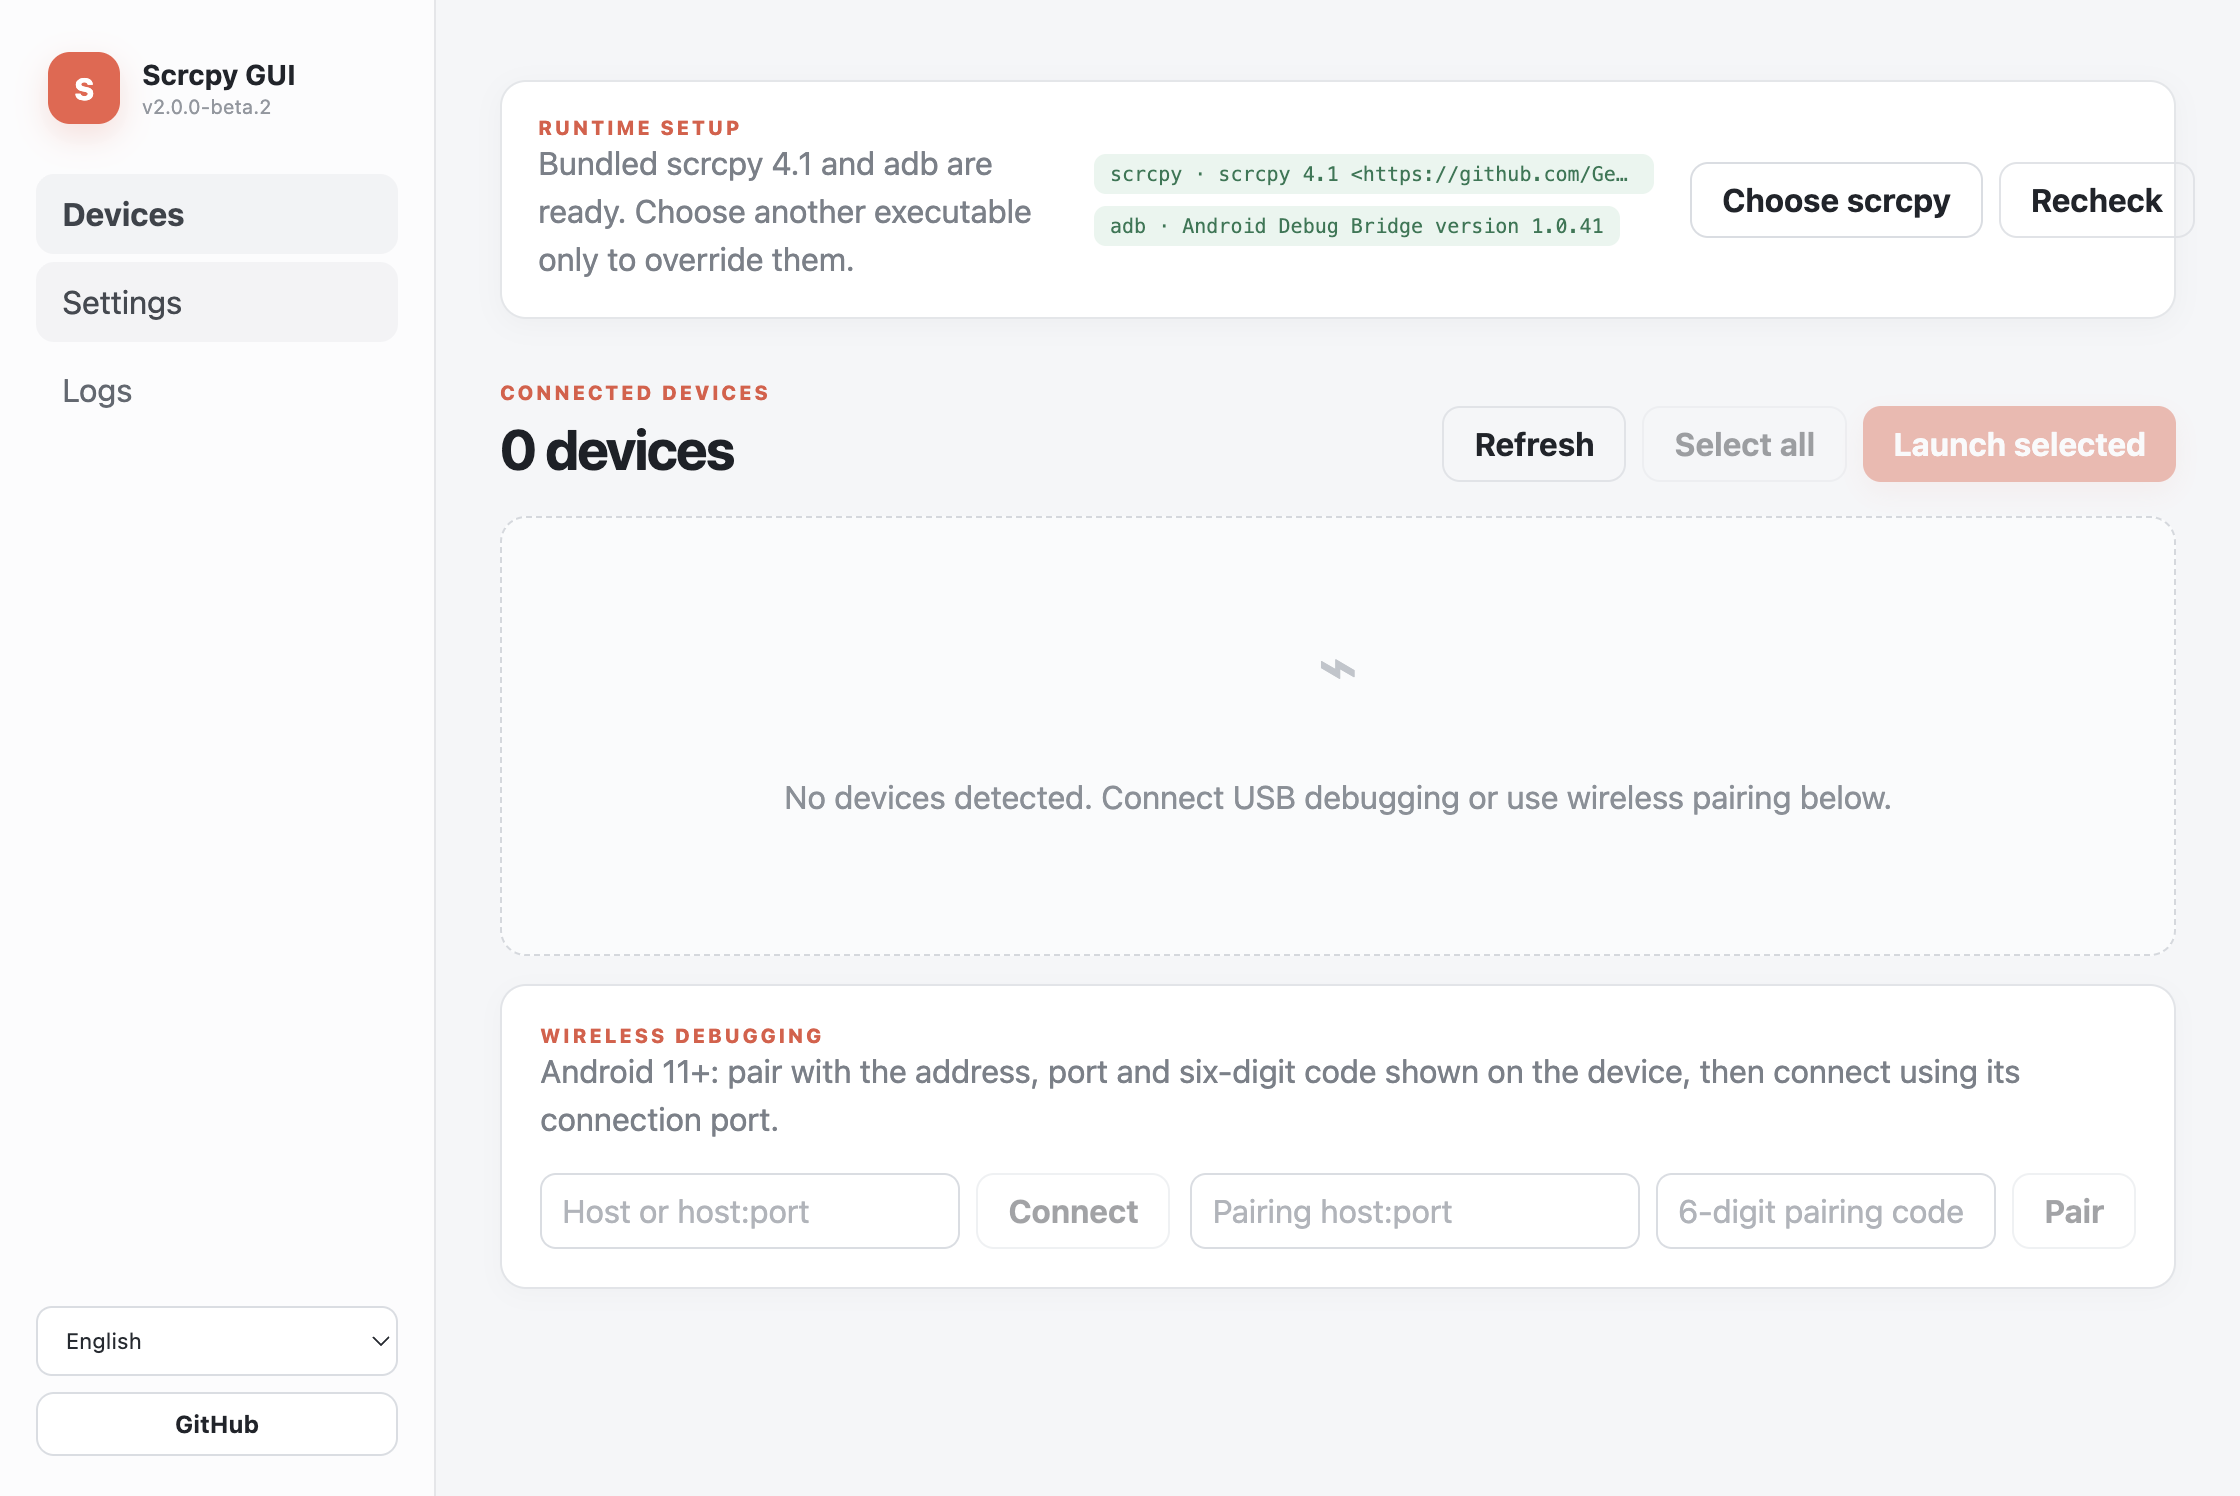
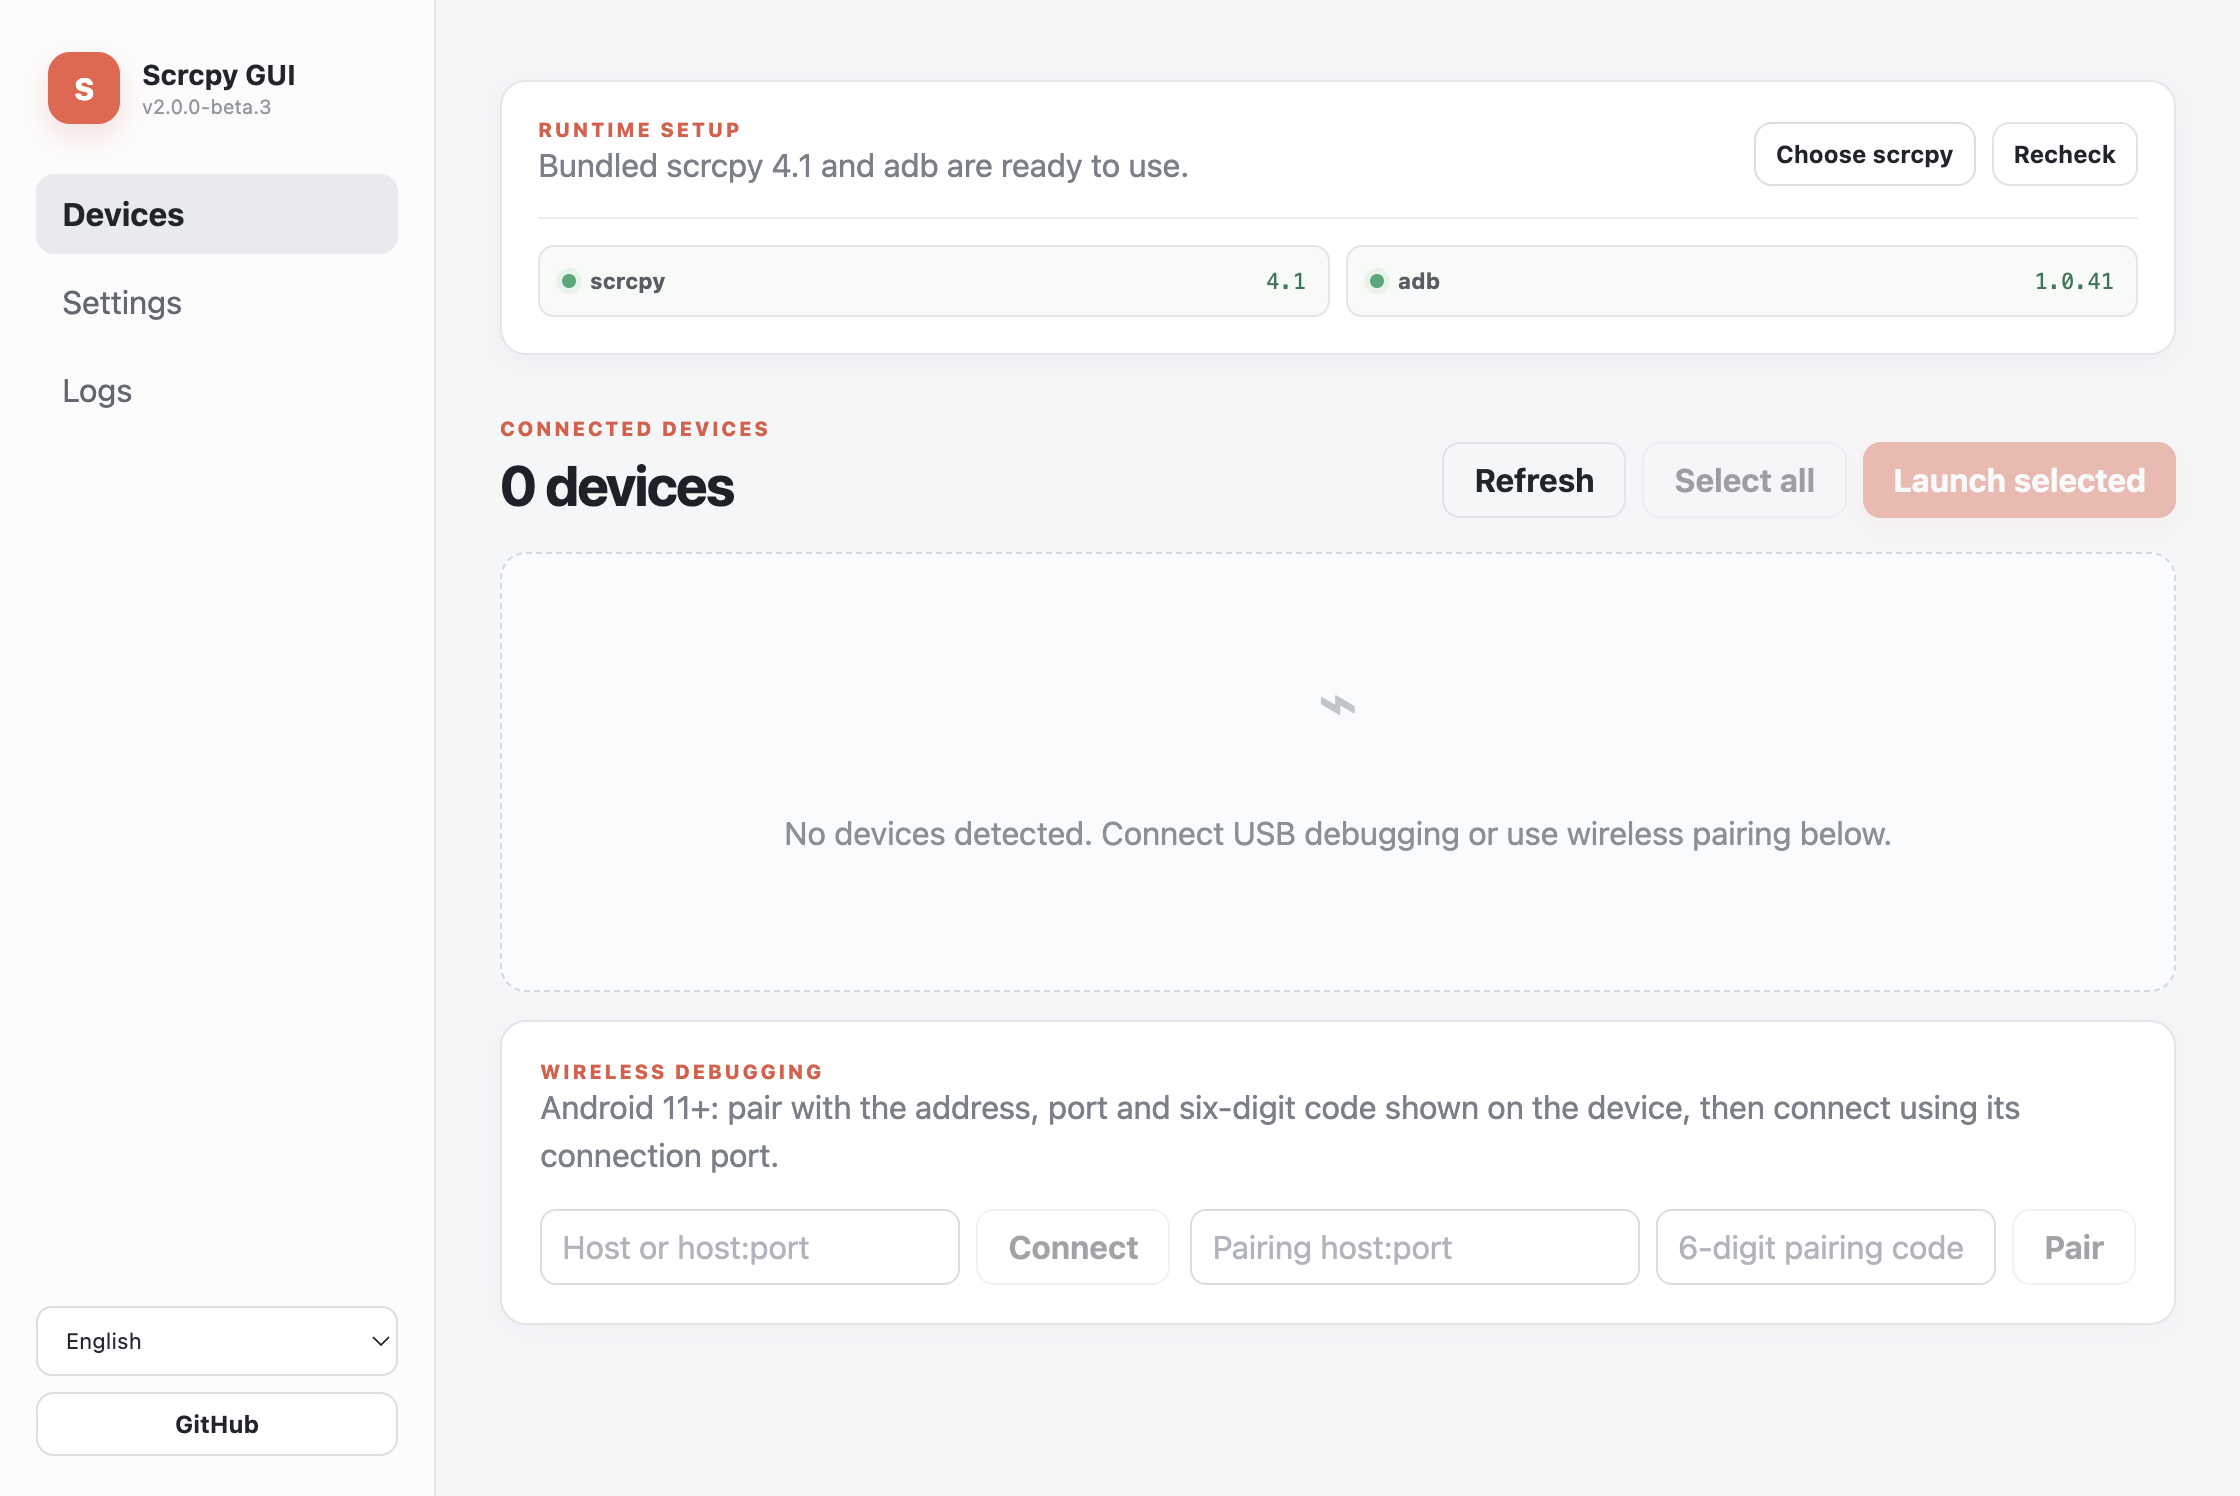
fix: make runtime setup responsive

diff --git a/src/renderer/styles.css b/src/renderer/styles.css
@@ -32,11 +32,12 @@ button:disabled { cursor: not-allowed; opacity: .42; }
 .ghost { border: 1px solid #e0e3e7; background: transparent; }.danger { border: 1px solid #f0c8c4; color: #bd4537; background: #fff5f3; }
 .compact { min-height: 32px; padding: 0 10px; font-size: 12px; }.button-row { display: flex; align-items: center; flex-wrap: wrap; gap: 8px; }.nowrap { flex-wrap: nowrap; }
 
-.runtime-card { display: grid; grid-template-columns: minmax(260px, 1.2fr) minmax(280px, 1fr) auto; align-items: center; gap: 18px; padding: 17px 18px; border: 1px solid #e3e6e9; border-radius: 13px; background: #fff; box-shadow: 0 3px 14px #20242a0a; }
-.runtime-card p { margin: 0; }.runtime-statuses { display: flex; flex-direction: column; align-items: flex-start; gap: 6px; }
-.runtime-card .button-row, .runtime-card button { white-space: nowrap; }
-.status-pill { max-width: 100%; overflow: hidden; padding: 4px 8px; border-radius: 6px; font-family: ui-monospace, SFMono-Regular, Menlo, monospace; font-size: 10px; text-overflow: ellipsis; white-space: nowrap; }
-.status-pill.ok { color: #277753; background: #e8f5ee; }.status-pill.bad { color: #ae443b; background: #fbeceb; }
+.runtime-card { display: grid; grid-template-columns: minmax(0, 1fr) auto; align-items: center; gap: 14px 18px; padding: 18px; border: 1px solid #e3e6e9; border-radius: 13px; background: #fff; box-shadow: 0 3px 14px #20242a0a; }
+.runtime-copy { min-width: 0; }.runtime-card p { margin: 0; }.runtime-actions { justify-self: end; white-space: nowrap; }
+.runtime-statuses { grid-column: 1 / -1; display: grid; grid-template-columns: repeat(2, minmax(0, 1fr)); gap: 8px; padding-top: 13px; border-top: 1px solid #eceef1; }
+.runtime-status { display: flex; min-width: 0; align-items: center; justify-content: space-between; gap: 16px; min-height: 36px; padding: 0 11px; border: 1px solid #e2e6e4; border-radius: 8px; background: #f7faf8; }
+.runtime-status-name { display: flex; flex: 0 0 auto; align-items: center; gap: 7px; color: #565d63; font-size: 11px; font-weight: 720; }.runtime-status-name i { width: 7px; height: 7px; border-radius: 50%; background: #3fa979; box-shadow: 0 0 0 3px #3fa97918; }
+.runtime-status code { min-width: 0; overflow: hidden; color: #287653; font-size: 11px; text-overflow: ellipsis; white-space: nowrap; }.runtime-status.bad { border-color: #f0dcda; background: #fff8f7; }.runtime-status.bad .runtime-status-name i { background: #cf6156; box-shadow: 0 0 0 3px #cf615618; }.runtime-status.bad code { color: #a64b43; }
 .eyebrow { margin: 0 0 6px; color: #e25944; font-size: 10px; font-weight: 800; letter-spacing: .12em; text-transform: uppercase; }
 .muted { color: #7a8089; line-height: 1.5; }.section-heading, .settings-header, .logs-header { display: flex; justify-content: space-between; align-items: end; gap: 24px; margin: 31px 0 17px; }
 h1, h2, p { margin-top: 0; }h1 { margin-bottom: 0; color: #1d2127; font-size: 28px; letter-spacing: -.035em; }h2 { margin-bottom: 18px; font-size: 15px; }
@@ -68,7 +69,7 @@ input, select { height: 38px; padding: 0 10px; }textarea { padding: 10px; line-h
 .toast-stack { position: fixed; z-index: 50; top: 22px; right: 22px; display: flex; flex-direction: column; width: min(360px, calc(100vw - 48px)); gap: 8px; }.toast { padding: 12px 14px; border: 1px solid #d9dde2; border-radius: 10px; background: #fff; box-shadow: 0 12px 34px #20242a1c; font-size: 12px; }.toast.success { border-color: #b9ddca; }.toast.error { border-color: #ecc4bf; color: #a93f34; background: #fff8f7; }
 
 @media (max-width: 980px) {
-  .app-shell { padding-left: 190px; }.topbar { width: 190px; padding-inline: 14px; }main { width: min(100% - 38px, 1040px); }.runtime-card { grid-template-columns: 1fr auto; }.runtime-statuses { grid-column: 1 / -1; grid-row: 2; }.toggle-grid { grid-template-columns: repeat(2, 1fr); }.wireless-grid { grid-template-columns: 1fr; }.control-actions { grid-template-columns: repeat(4, 1fr); }.wireless-target { grid-template-columns: 1fr 1fr; }.saved-row { grid-template-columns: 1fr auto; }.profile-summary { display: none; }
+  .app-shell { padding-left: 190px; }.topbar { width: 190px; padding-inline: 14px; }main { width: min(100% - 38px, 1040px); }.toggle-grid { grid-template-columns: repeat(2, 1fr); }.wireless-grid { grid-template-columns: 1fr; }.control-actions { grid-template-columns: repeat(4, 1fr); }.wireless-target { grid-template-columns: 1fr 1fr; }.saved-row { grid-template-columns: 1fr auto; }.profile-summary { display: none; }
 }
 
 @keyframes recording-pulse { 50% { border-color: #e65e4a; box-shadow: 0 0 0 4px #e65e4a18; } }

diff --git a/src/renderer/i18n.ts b/src/renderer/i18n.ts
@@ -9,7 +9,7 @@ const en: Record<string, string> = {
   settingsSection_recording: 'Recording', settingsSection_geometry: 'Window', settingsSection_advanced: 'Advanced',
   logs: 'Logs',
   runtimeSetup: 'Runtime setup',
-  runtimeHint: 'Bundled scrcpy 4.1 and adb are ready. Choose another executable only to override them.',
+  runtimeHint: 'Bundled scrcpy 4.1 and adb are ready to use.',
   chooseScrcpy: 'Choose scrcpy',
   recheck: 'Recheck',
   ready: 'Ready',
@@ -116,7 +116,7 @@ const en: Record<string, string> = {
 const zhCN: Record<string, string> = {
   devices: '设备', settings: '设置', logs: '日志', settingsSection_general: '常规', settingsSection_video: '视频',
   settingsSection_controls: '控制', settingsSection_recording: '录制', settingsSection_geometry: '窗口', settingsSection_advanced: '高级', runtimeSetup: '运行环境',
-  runtimeHint: '内置 scrcpy 4.1 与 adb 已就绪；只有需要覆盖时才选择其他可执行文件。', chooseScrcpy: '选择其他 scrcpy',
+  runtimeHint: '已内置 scrcpy 4.1 与 adb，可以直接使用。', chooseScrcpy: '选择其他 scrcpy',
   recheck: '重新检测', ready: '可用', notFound: '未找到', refresh: '刷新', connectedDevices: '已连接设备',
   noDevices: '未检测到设备。请连接 USB 调试，或在下方使用无线配对。', launchSelected: '打开所选设备', stop: '停止',
   disconnect: '断开', unauthorized: '请在设备上允许调试，然后刷新。', wireless: '无线调试',
@@ -163,7 +163,7 @@ const zhCN: Record<string, string> = {
 const zhTW: Record<string, string> = {
   ...zhCN,
   devices: '裝置', settings: '設定', logs: '日誌', runtimeSetup: '執行環境',
-  runtimeHint: '內建 scrcpy 4.1 與 adb 已就緒；只有需要覆蓋時才選擇其他執行檔。', chooseScrcpy: '選擇其他 scrcpy',
+  runtimeHint: '已內建 scrcpy 4.1 與 adb，可以直接使用。', chooseScrcpy: '選擇其他 scrcpy',
   recheck: '重新偵測', ready: '可用', notFound: '未找到', refresh: '重新整理', connectedDevices: '已連接裝置',
   noDevices: '未偵測到裝置。請連接 USB 偵錯，或在下方使用無線配對。', launchSelected: '開啟所選裝置', stop: '停止',
   disconnect: '中斷', unauthorized: '請在裝置上允許偵錯，然後重新整理。', wireless: '無線偵錯',
@@ -178,7 +178,7 @@ const zhTW: Record<string, string> = {
 
 const ru: Record<string, string> = {
   devices: 'Устройства', settings: 'Настройки', logs: 'Журнал', runtimeSetup: 'Среда выполнения',
-  runtimeHint: 'Встроенные scrcpy 4.1 и adb готовы. Выберите другой файл только для замены.',
+  runtimeHint: 'Встроенные scrcpy 4.1 и adb готовы к работе.',
   chooseScrcpy: 'Выбрать scrcpy', recheck: 'Проверить', ready: 'Готово', notFound: 'Не найдено', refresh: 'Обновить',
   connectedDevices: 'Подключённые устройства', noDevices: 'Устройства не найдены. Подключите USB-отладку или используйте беспроводное сопряжение ниже.',
   launchSelected: 'Открыть выбранные', stop: 'Остановить', disconnect: 'Отключить',

diff --git a/src/renderer/AppV2.vue b/src/renderer/AppV2.vue
@@ -147,6 +147,13 @@ let lastRecordedActionAt = 0
 const autoLaunchAttempted = new Set<string>()
 
 const t = (key: string): string => translate(config.locale, key)
+const runtimeVersion = (binary: 'scrcpy' | 'adb'): string => {
+  const value = environment.value?.[binary].version || ''
+  const match = binary === 'scrcpy'
+    ? value.match(/^scrcpy\s+([^\s]+)/i)
+    : value.match(/\bversion\s+([^\s]+)/i)
+  return match?.[1] || value || t('notFound')
+}
 const usableDevices = computed(() => devices.value.filter((device) => device.state === 'device'))
 const allSelected = computed(() =>
   usableDevices.value.length > 0 && usableDevices.value.every((device) => selectedSerials.value.includes(device.serial))
@@ -515,21 +522,23 @@ onBeforeUnmount(() => {
 
     <main>
       <section v-if="activeTab === 'devices'" class="runtime-card">
-        <div>
+        <div class="runtime-copy">
           <p class="eyebrow">{{ t('runtimeSetup') }}</p>
           <p class="muted">{{ t('runtimeHint') }}</p>
         </div>
-        <div class="runtime-statuses">
-          <span :class="['status-pill', environment?.scrcpy.ok ? 'ok' : 'bad']">
-            scrcpy · {{ environment?.scrcpy.ok ? environment.scrcpy.version : t('notFound') }}
-          </span>
-          <span :class="['status-pill', environment?.adb.ok ? 'ok' : 'bad']">
-            adb · {{ environment?.adb.ok ? environment.adb.version : t('notFound') }}
-          </span>
+        <div class="runtime-actions button-row nowrap">
+          <button class="secondary compact" @click="chooseScrcpy">{{ t('chooseScrcpy') }}</button>
+          <button class="ghost compact" :disabled="loadingEnvironment" @click="refreshEnvironment(true)">{{ t('recheck') }}</button>
         </div>
-        <div class="button-row nowrap">
-          <button class="secondary" @click="chooseScrcpy">{{ t('chooseScrcpy') }}</button>
-          <button class="ghost" :disabled="loadingEnvironment" @click="refreshEnvironment(true)">{{ t('recheck') }}</button>
+        <div class="runtime-statuses">
+          <div :class="['runtime-status', environment?.scrcpy.ok ? 'ok' : 'bad']">
+            <span class="runtime-status-name"><i />scrcpy</span>
+            <code :title="environment?.scrcpy.version">{{ runtimeVersion('scrcpy') }}</code>
+          </div>
+          <div :class="['runtime-status', environment?.adb.ok ? 'ok' : 'bad']">
+            <span class="runtime-status-name"><i />adb</span>
+            <code :title="environment?.adb.version">{{ runtimeVersion('adb') }}</code>
+          </div>
         </div>
       </section>
 

diff --git a/CHANGELOG.md b/CHANGELOG.md
@@ -1,5 +1,16 @@
 # Changelog
 
+## 2.0.0-beta.3
+
+### Changed
+
+- Reworked Runtime setup into a compact two-level layout with actions above two equal status blocks.
+- Shortened detected runtime versions to readable values while preserving the complete version output as a tooltip.
+
+### Fixed
+
+- Runtime action buttons no longer overflow the card at the default 1120-pixel window width.
+
 ## 2.0.0-beta.2
 
 This release turns the complete historical issue sweep into concrete v2 features and restores the full project documentation.
